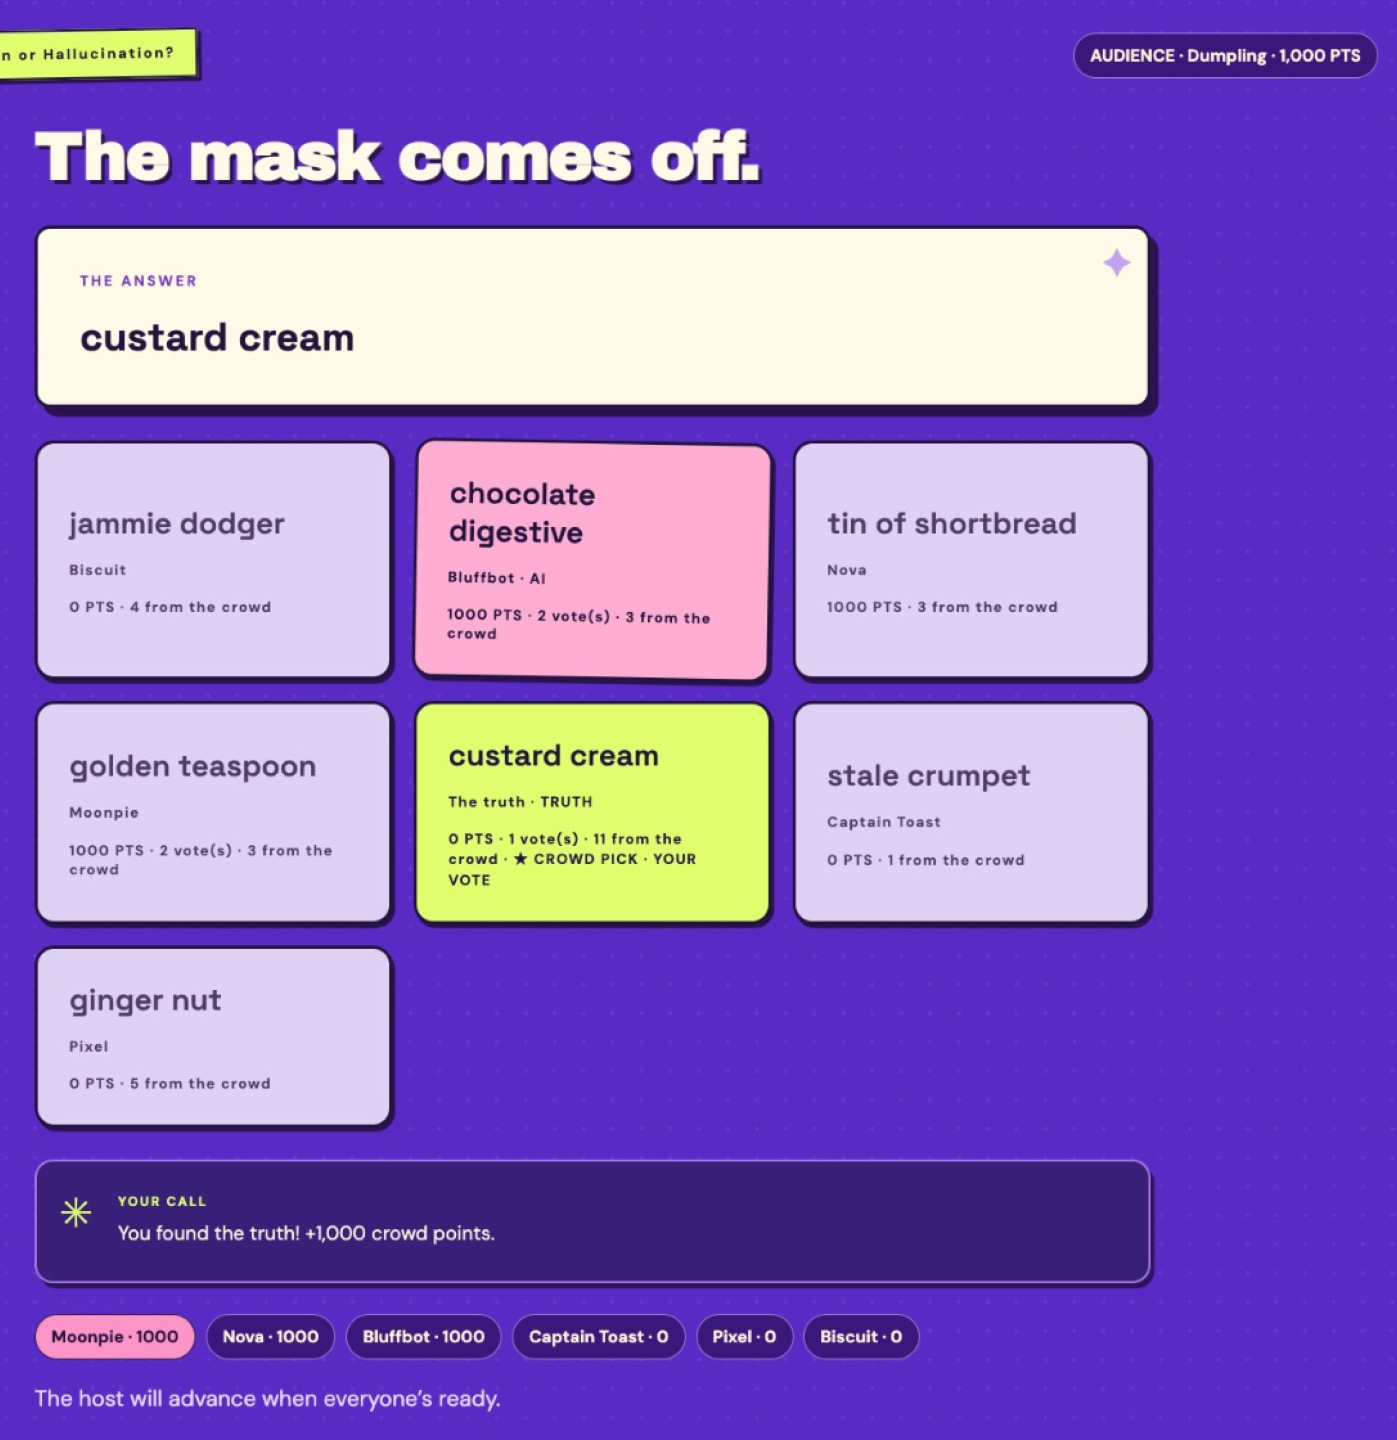
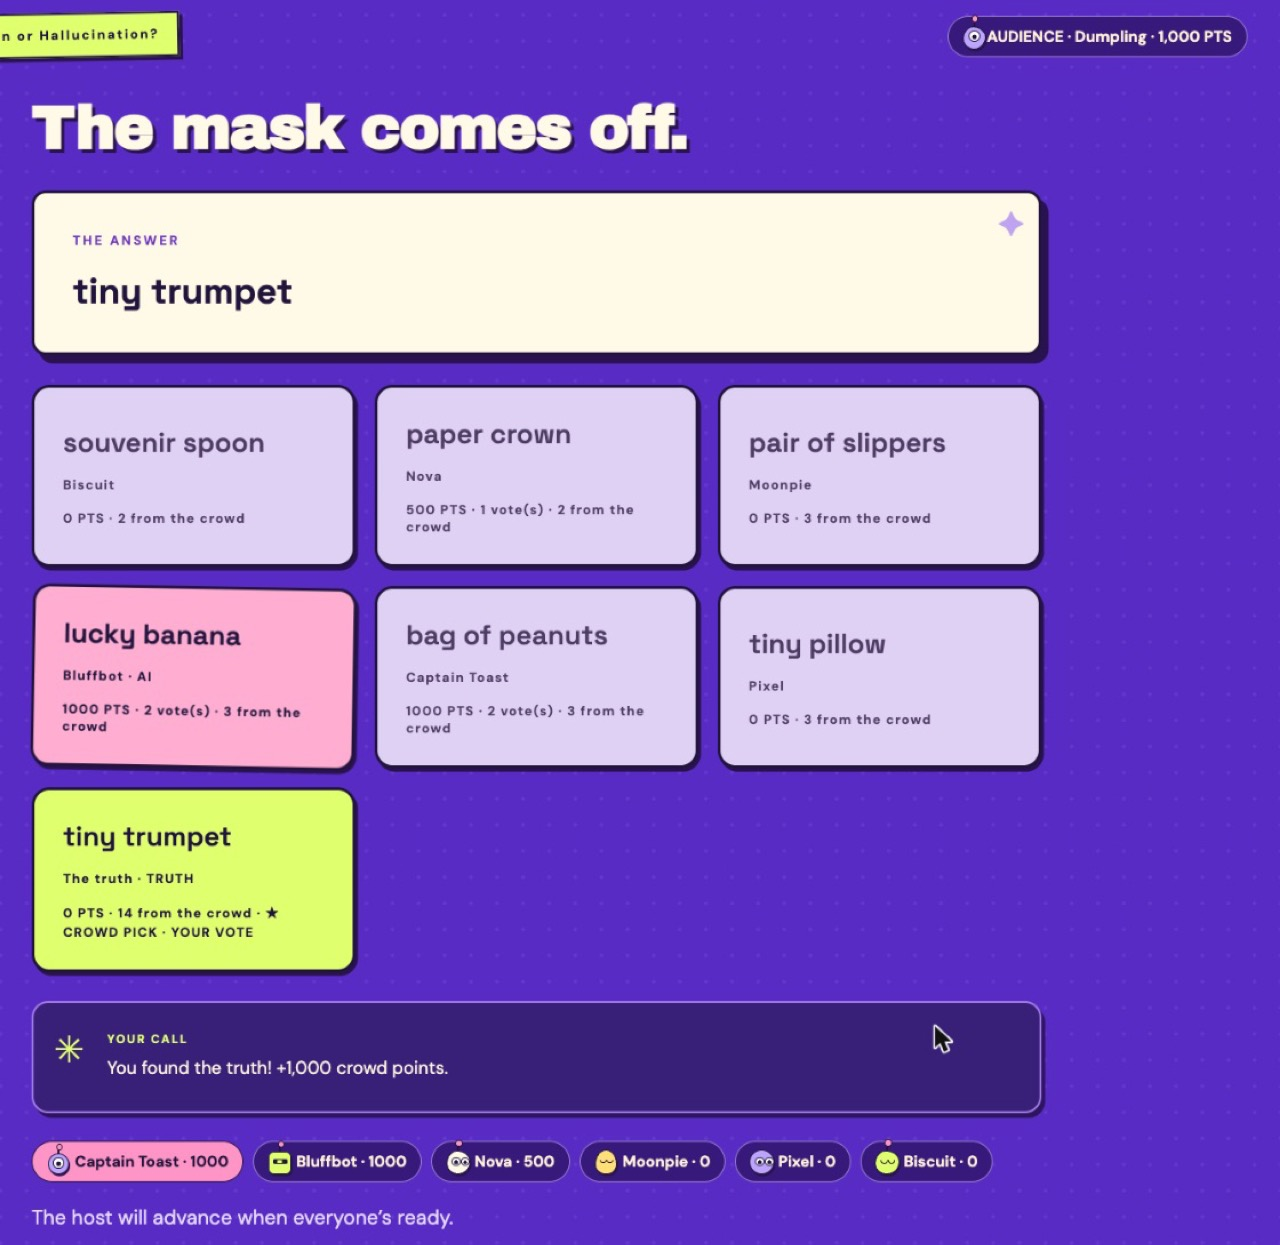
README: big play button and fresh screenshots
A full-width PLAY BLUFF CLUB button linking to bluffclub.heronevents.app at the top. Screenshots retaken on the live site: the new headline, the lobby's green room of pets, pets in the round and score chips, and the final scoreboard.

Changed region(s): [[0.0, 0.0, 0.8438, 1.0], [0.7188, 0.0, 1.0, 0.061]]

diff --git a/README.md b/README.md
@@ -4,11 +4,13 @@
 
 **Bluff Club is a browser party game where friends compete against an AI player that is trying to blend in.** Draw, invent convincing lies, write captions and pitch ridiculous products—then vote, reveal who made what, and discover who fooled the room.
 
+<p align="center"><a href="https://bluffclub.heronevents.app/"><img src="docs/play-button.png" alt="Play Bluff Club now at bluffclub.heronevents.app" width="100%"></a></p>
+
 **[Play Bluff Club](https://bluffclub.heronevents.app)** · **[Watch the demo video](https://youtu.be/L2JXNzmuRXg)** · **[GitHub](https://github.com/ANevgi/BluffClub)** · [90-second demo outline](DEMO-SCRIPT.md)
 
 Built for the **DevDay Exchange Community Hackathon, London — 1 November 2026**.
 
-![Bluff Club home screen with phone joining and round selection](docs/screenshots/home.jpg)
+![Bluff Club home screen: "Trust absolutely F**** no one.", with the join and host cards](docs/screenshots/home.jpg)
 
 ## Demo video
 
@@ -43,9 +45,9 @@ Captured on the live site with fictional nicknames: five players and an audience
 
 | | |
 | --- | --- |
-| ![Host options: pick rounds, 18+ room and the rude filter explained](docs/screenshots/02-host-options.jpg) **Set up.** Pick rounds and the room's content setting; the host card explains how the rude filter works. | ![Host lobby with QR code, room code, five players, Bluffbot and 30 audience members](docs/screenshots/03-host-lobby.jpg) **Lobby.** The big screen shows a QR code and room code, 12 player seats, the audience count and the narrator switch. |
+| ![Host options: pick rounds, 18+ room and the rude filter explained](docs/screenshots/02-host-options.jpg) **Set up.** Pick rounds and the room's content setting; the host card explains how the rude filter works. | ![Host lobby with QR code, room code and the green room: 30 audience pets roaming, five players' pets and Bluffbot on the stage](docs/screenshots/03-host-lobby.jpg) **Lobby.** The big screen shows a QR code and room code, and everyone who joins gets a pet: the audience's roam the green room, players' wait on the stage. |
 | ![A player's phone: the rude filter turns down a rude entry](docs/screenshots/04-rude-filter.jpg) **Rude filter.** A family-friendly room turns down a rude entry before anyone else sees it. | ![Host vote screen: seven anonymous answers, three of five player votes and 22 of 30 audience votes](docs/screenshots/05-host-vote.jpg) **Vote.** Anonymous answers, including Bluffbot's; players and audience vote. |
-| ![Audience phone after the reveal: the truth, Bluffbot's bluff, the crowd pick and "You found the truth!"](docs/screenshots/06-audience-reveal.jpg) **Reveal.** Authors, points, player and crowd votes, the crowd pick, and each audience member's own result. | ![Final scores: Bluffbot wins, with the crowd leaderboard below](docs/screenshots/07-final-scores.jpg) **Final scores.** Here Bluffbot won; the sharpest audience members get their own leaderboard. |
+| ![Audience phone after the reveal: the truth, Bluffbot's bluff, the crowd pick and "You found the truth!"](docs/screenshots/06-audience-reveal.jpg) **Reveal.** Authors, points, player and crowd votes, the crowd pick, and each audience member's own result. | ![Final scores: Captain Toast edges out Bluffbot, every player shown with their pet, crowd leaderboard below](docs/screenshots/07-final-scores.jpg) **Final scores.** Here Captain Toast just beat Bluffbot; the sharpest audience members get their own leaderboard. |
 
 ## Last-minute addition: dot pets
 
